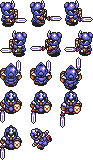
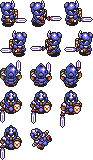
Blue soldier fix

Changed region(s): [[0.6452, 0.3438, 0.8817, 0.5625], [0.3226, 0.375, 0.5591, 0.5625]]

diff --git a/zelda/enemy/BlueSoldier.java b/zelda/enemy/BlueSoldier.java
@@ -34,7 +34,7 @@ public class BlueSoldier extends Karacter implements Hittable
 		spriteLoc.put("Walk left 2",	new Rectangle(64, 30, 29, 27));
 
 		spriteLoc.put("Stand up",		new Rectangle(0, 60, 22, 27));
-		spriteLoc.put("Walk up 1",		new Rectangle(30, 60, 22, 26));
+		spriteLoc.put("Walk up 1",		new Rectangle(30, 60, 22, 30));
 		spriteLoc.put("Walk up 2",		new Rectangle(60, 57, 22, 33));
 
 		spriteLoc.put("Stand down",		new Rectangle(0, 90, 22, 33));
